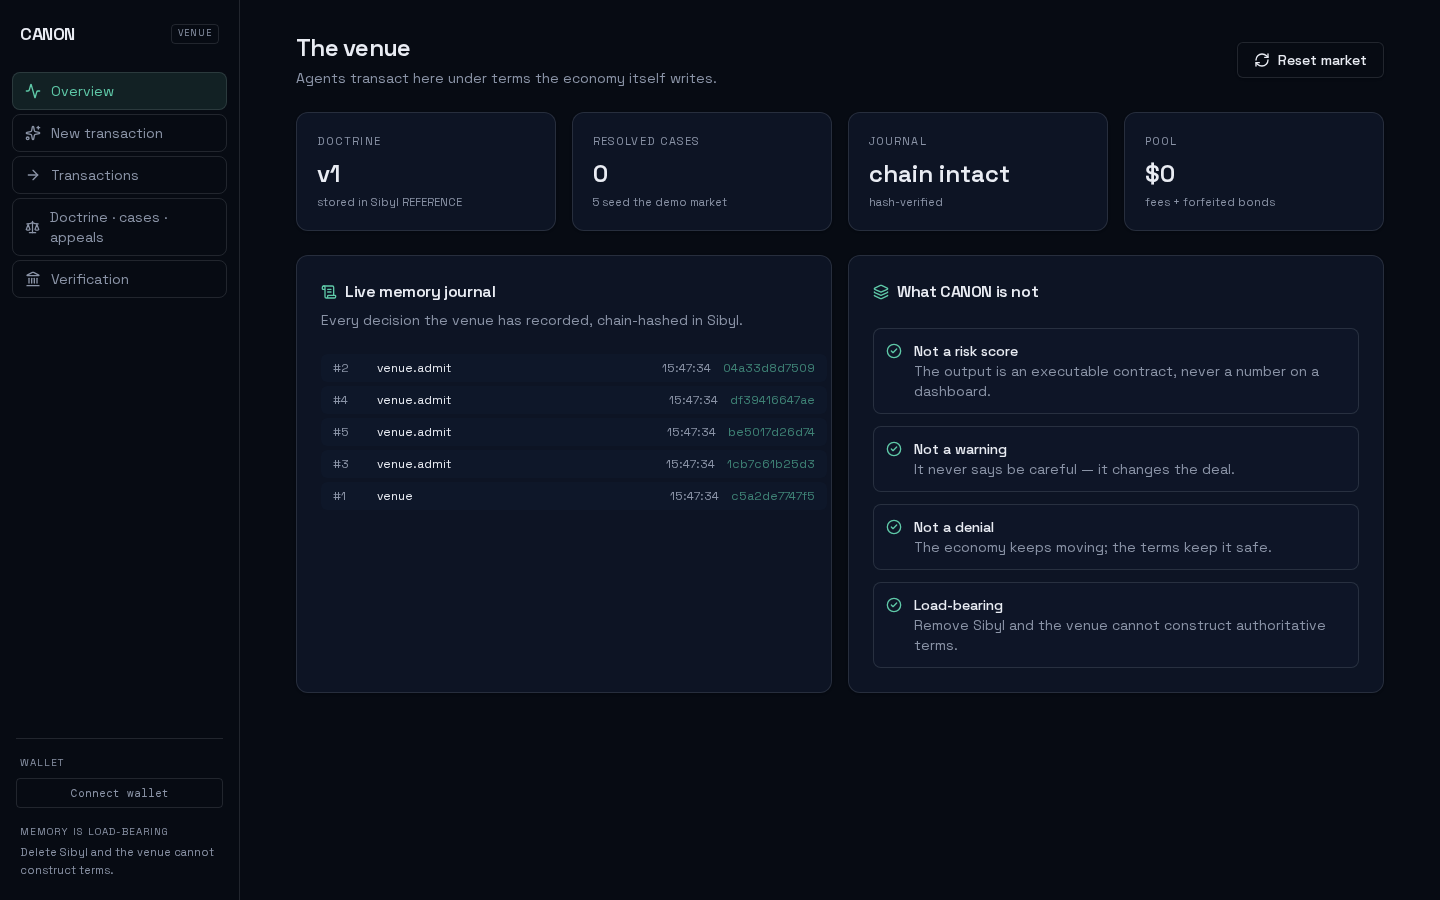
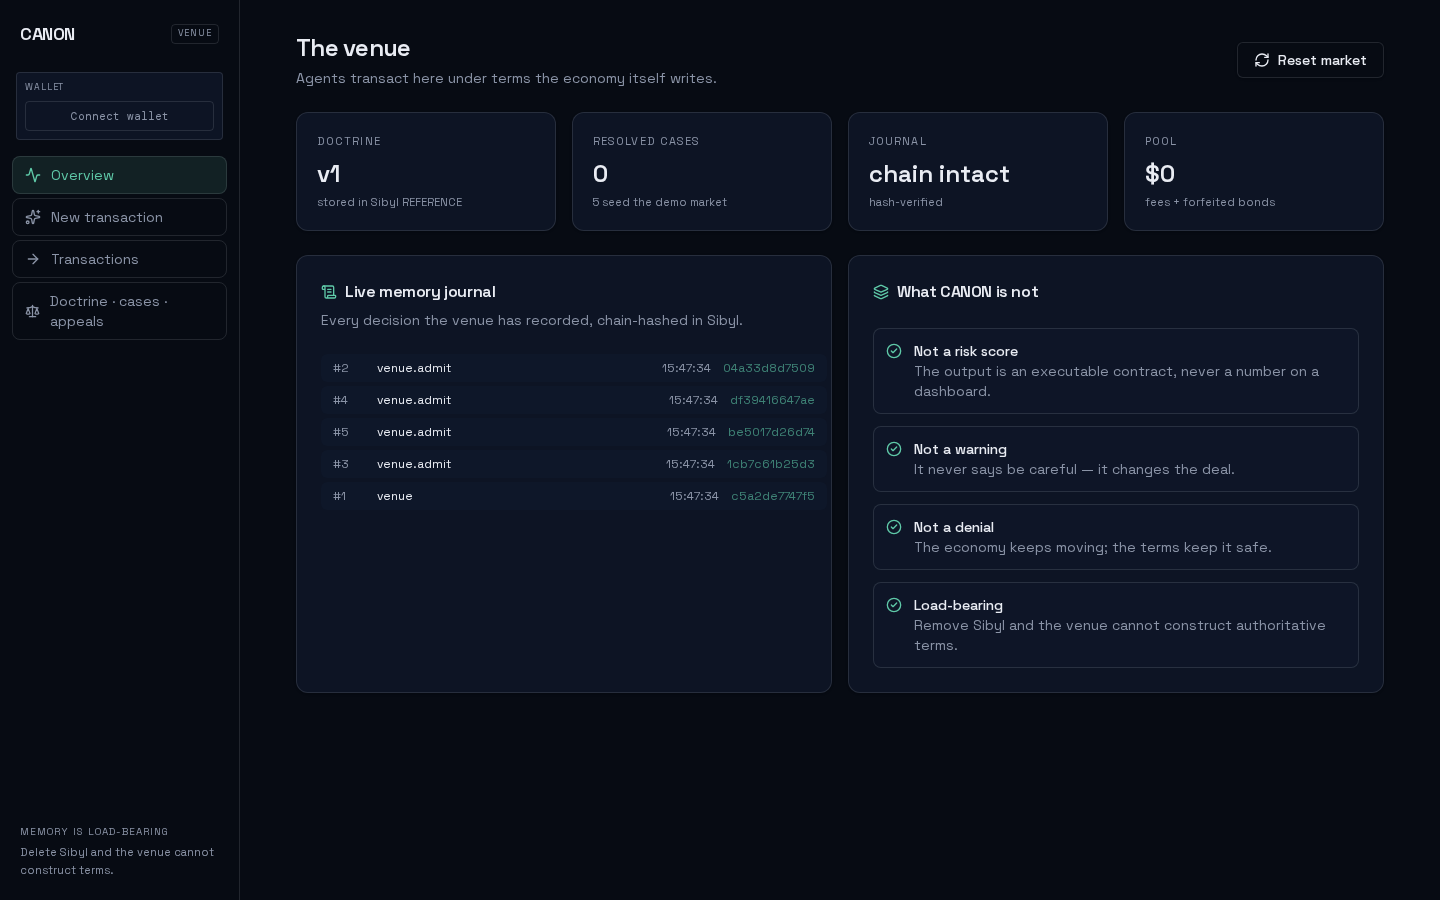
purge product mock/simulated surfaces: remove fixture-based judge endpoints from the served API (cold-start/ablation) and console Verification section; keep only the REAL live-market deletion gate (/api/verify/deletion) with WAL-consistent backup copy; real provider wallet addresses replace stale fa

Changed region(s): [[0.0, 0.1867, 0.125, 0.3733], [0.0, 0.0933, 0.125, 0.1556], [0.0625, 0.8711, 0.125, 0.9022]]

diff --git a/web/components/console/institution.tsx b/web/components/console/institution.tsx
@@ -34,8 +34,8 @@ export function DoctrineView({ bump }: { bump: number }) {
 
       {doc && doc.rules.length === 0 && (
         <Card><CardContent className="p-5 text-sm text-muted-foreground">
-          No doctrine yet — the venue is running on naive terms (100% upfront, no bond). Five confirmed
-          failures in a job class will write doctrine v1.
+          No doctrine yet — the venue is not founded. A venue must be chartered
+          before it can construct terms; after that, only real resolved cases and bonded appeals move it.
         </CardContent></Card>
       )}
 
@@ -107,7 +107,7 @@ export function AppealsView({ bump, onChanged }: { bump: number; onChanged: () =
       await api("/api/appeals", {
         method: "POST",
         body: JSON.stringify({
-          challenger: "0xprov000000000000000000000000000003",
+          challenger: "0x31eafd3fe36d6c891ea5b369a876166dffabf320",
           target_rule_id: ruleId, arguments: arguments_, bond_usd: Number(bond),
         }),
       });
@@ -207,100 +207,3 @@ export function CasesView({ bump }: { bump: number }) {
   );
 }
 
-type Proof = { pass_?: boolean; virgin_terms?: any; recalled_terms?: any; doctrine_version?: number; ts?: string; refusal?: string; naive?: any; governed?: any; reduction?: number };
-
-function ProofCard({ title, note, run, kind }: { title: string; note: string; run: () => Promise<Proof>; kind: "cold" | "del" | "abl" }) {
-  const [busy, setBusy] = useState(false);
-  const [res, setRes] = useState<Proof | null>(null);
-  const runOnce = async () => {
-    setBusy(true);
-    setRes(null);
-    try {
-      const r = await run();
-      setRes(r);
-      toast.success(r.pass_ === false ? `${title}: PROOF FAIL` : `${title}: live proof recorded`);
-    } catch (e: any) {
-      toast.error(e.message);
-    } finally {
-      setBusy(false);
-    }
-  };
-
-  return (
-    <Card className="border-border">
-      <CardHeader className="pb-2">
-        <CardTitle className="flex items-center gap-2 text-base">
-          <ShieldCheck className="size-4 text-[#5fc9a8]" /> {title}
-        </CardTitle>
-        <CardDescription>{note}</CardDescription>
-      </CardHeader>
-      <CardContent className="space-y-2">
-        <Button size="sm" onClick={runOnce} disabled={busy}><FlaskConical className={busy ? "animate-pulse" : ""} /> Run live</Button>
-        {res && (
-          <div className="term-mono rounded-lg border border-border bg-black/25 p-3 text-[11px] leading-relaxed">
-            {res.pass_ !== undefined && (
-              <div className={`mb-1 font-semibold ${res.pass_ ? "text-[#5fc9a8]" : "text-[#e06a5e]"}`}>
-                {res.pass_ ? "PROOF PASS" : "PROOF FAIL"}
-              </div>
-            )}
-            {kind === "cold" && (
-              <>
-                <div>virgin terms · doctrine v0 · bond {res.virgin_terms?.bond_usd}</div>
-                <div>recalled terms · doctrine v{res.doctrine_version} · bond {res.recalled_terms?.bond_usd}</div>
-                <div className="text-muted-foreground">a stranger's history changed the deal</div>
-              </>
-            )}
-            {kind === "del" && (
-              <div className="text-[#e06a5e]/90">{res.refusal ?? "??"}</div>
-            )}
-            {kind === "abl" && (
-              <>
-                <div>memoryless · upfront {res.naive?.upfront_usd} · bond {res.naive?.bond_usd}</div>
-                <div>history-aware · upfront {res.governed?.upfront_usd} · bond {res.governed?.bond_usd}</div>
-                <div>capital at risk reduced {Math.round((res.reduction ?? 0) * 100)}%</div>
-              </>
-            )}
-            {res.ts && <div className="text-muted-foreground">ts {res.ts}</div>}
-          </div>
-        )}
-      </CardContent>
-    </Card>
-  );
-}
-
-export function JudgeLab({ bump }: { bump: number }) {
-  return (
-    <div className="space-y-5">
-      <h1 className="text-2xl font-semibold tracking-[-0.03em]">Verification proofs</h1>
-      <p className="text-sm text-muted-foreground">
-        Every button runs the real engine against real Sibyl memory. No canned output, no precomputed
-        strings.
-      </p>
-      <div className="grid gap-4 lg:grid-cols-3">
-        <ProofCard
-          title="Cold start / fresh session"
-          note="A brand-new process over the seeded Sibyl file recalls doctrine written earlier and returns different terms for the same request."
-          kind="cold"
-          run={() => api<Proof>("/api/judge/coldstart")}
-        />
-        <ProofCard
-          title="Deletion test"
-          note="The gate: remove Sibyl and the venue cannot construct authoritative terms. Refusal is the product."
-          kind="del"
-          run={() => api<Proof>("/api/judge/deletion")}
-        />
-        <ProofCard
-          title="Ablation"
-          note="History-aware vs memoryless CANON on identical work — measured capital delta."
-          kind="abl"
-          run={() => api<Proof>("/api/judge/ablation")}
-        />
-      </div>
-      <p className="text-xs text-muted-foreground">
-        Tip: run the full loop first — New transaction → lock escrow → provider failed → file claim.
-        After five confirmed failures the doctrine bumps, and the cold-start proof returns a bond where
-        there was none.
-      </p>
-    </div>
-  );
-}

diff --git a/web/app/page.tsx b/web/app/page.tsx
@@ -25,14 +25,14 @@ const STARS = seededStars(110);
 const SPEC_ROWS = [
   { lvl: "L1 · Market", name: "No memory", desc: "Every session starts blind. The same bad actor gets the same naive terms forever: 100% upfront, no bond, no recourse." },
   { lvl: "L2 · Venue", name: "CANON", desc: "Agents transact inside the venue. Admission is recorded; every case becomes part of the venue's institutional memory." },
-  { lvl: "L3 · Doctrine", name: "Terms, generated", desc: "Resolved cases cross evidence thresholds and amend stored rules. One agent's loss becomes a rule that protects everyone — then decays when the pattern ends." },
+  { lvl: "L3 · Doctrine", name: "Terms, generated", desc: "Resolved cases refresh the governing rule's evidence; rules decay without support; a bonded appeal amends the doctrine for everyone." },
   { lvl: "L4 · Appeal", name: "Contestable", desc: "Post a bond and challenge a precedent. A winning appeal amends the doctrine for every future transaction." },
 ];
 
 const MECH = ["transactions", "collective memory", "precedent", "doctrine", "executable terms", "base"];
 
 const NAIVE = ["no memory between sessions", "100% upfront every time", "no bond, no escrow, no recourse", "one failure teaches nothing"];
-const CANON = ["terms from collective precedent", "bond + milestones where the record says so", "rules self-amend from evidence — and decay", "any rule can be contested with a bond"];
+const CANON = ["terms from doctrine stored in memory", "bond + milestones where the charter requires", "rules amended only by real bonded appeals", "real resolved cases keep the rule alive — or let it decay"];
 
 const RECEIPT = [
   { k: "Upfront", before: "$400", after: "$100" },
@@ -84,9 +84,9 @@ export default function Home() {
           <span style={{ color: "#5fc9a8" }}>The venue writes the terms.</span>
         </h1>
         <p className="mt-8 max-w-xl text-[17px] leading-relaxed text-[#8b94a7]">
-          A stranger's past failure changes the exact contract you receive today. Not a score. Not a
-          warning. Not a denial. A different deal — generated from precedent stored in memory and
-          executed on Base.
+          The terms of every deal come from doctrine stored in the venue's memory — founded by a
+          declared charter, amended only by real bonded appeals, kept alive by real resolved cases.
+          Not a score. Not a warning. Not a denial. A different deal — executed in USDC on Base.
         </p>
         <div className="mt-10 flex flex-wrap items-center gap-3">
           <Link href="/console" className="btn-mint data px-5 py-2.5 text-sm">
@@ -168,7 +168,7 @@ export default function Home() {
             <div className="border border-[rgba(95,201,168,0.45)] bg-[#0d1424] p-7">
               <div className="flex items-center justify-between">
                 <h2 className="text-xl font-semibold text-[#e9ecf3]">Inside Canon</h2>
-                <span className="chip-ok data px-2 py-1 text-[10px]">5 confirmed cases</span>
+                <span className="chip-ok data px-2 py-1 text-[10px]">charter-governed</span>
               </div>
               <ul className="mt-6 space-y-3">
                 {CANON.map((t) => (
@@ -183,7 +183,7 @@ export default function Home() {
                   $100 upfront · $80 bond
                 </div>
                 <div className="data mt-2 text-[11px] text-[#55607a]">
-                  doctrine v1 · rule CANON-001-research · unrelated participants
+                  doctrine v1 · rule CANON-001-research · founded by charter
                 </div>
               </div>
             </div>

diff --git a/web/components/console/panels.tsx b/web/components/console/panels.tsx
@@ -18,14 +18,13 @@ import {
   Table, TableBody, TableCell, TableHead, TableHeader, TableRow,
 } from "@/components/ui/table";
 
-export type Section = "overview" | "deal" | "transactions" | "institution" | "judge";
+export type Section = "overview" | "deal" | "transactions" | "institution";
 
 const NAV: { id: Section; label: string; icon: typeof Activity }[] = [
   { id: "overview", label: "Overview", icon: Activity },
   { id: "deal", label: "New transaction", icon: Sparkles },
   { id: "transactions", label: "Transactions", icon: ArrowRight },
   { id: "institution", label: "Doctrine · cases · appeals", icon: Scale },
-  { id: "judge", label: "Verification", icon: Landmark },
 ];
 
 export function Sidebar({
@@ -315,7 +314,7 @@ export function TermsCard({ terms }: { terms: Terms }) {
 }
 
 export function DealStudio({ onDone }: { onDone: () => void }) {
-  const [provider, setProvider] = useState("0xprov000000000000000000000000000003");
+  const [provider, setProvider] = useState("0x31eafd3fe36d6c891ea5b369a876166dffabf320");
   const [amount, setAmount] = useState("400");
   const [terms, setTerms] = useState<Terms | null>(null);
   const [tx, setTx] = useState<Tx | null>(null);
@@ -378,7 +377,7 @@ export function DealStudio({ onDone }: { onDone: () => void }) {
           <div>
             <Label>Counterparty</Label>
             <div className="mt-2 grid grid-cols-2 gap-2">
-              {(["0xprov000000000000000000000000000002", "0xprov000000000000000000000000000003"] as const).map((p) => (
+              {(["0x20fd7bec60829230a1cfbe4caf25a12ab2e49aa9", "0x31eafd3fe36d6c891ea5b369a876166dffabf320"] as const).map((p) => (
                 <button
                   key={p}
                   onClick={() => setProvider(p)}
@@ -469,7 +468,7 @@ export function DealStudio({ onDone }: { onDone: () => void }) {
               <span>doctrine v{claimRes.doctrine_version_after}</span>
             </div>
             <p className="text-xs text-muted-foreground">
-              Five confirmed failures in this job class will amend the doctrine — then run the verification proofs
+              A resolved case records real evidence; a bonded appeal amends the doctrine.
               and run the fresh-session proof to see a different deal for the same request.
             </p>
           </CardContent>

diff --git a/web/app/console/page.tsx b/web/app/console/page.tsx
@@ -4,7 +4,7 @@ import { useEffect, useState } from "react";
 import { ArrowRight, Copy, TerminalSquare } from "lucide-react";
 import { engineConfigured } from "@/lib/api";
 import { Sidebar, Overview, DealStudio, Transactions, type Section } from "@/components/console/panels";
-import { AppealsView, CasesView, DoctrineView, JudgeLab } from "@/components/console/institution";
+import { AppealsView, CasesView, DoctrineView } from "@/components/console/institution";
 import { toast } from "sonner";
 
 function ConnectGate() {
@@ -57,8 +57,9 @@ function ConnectGate() {
               <div className="flex items-start gap-3">
                 <TerminalSquare className="mt-0.5 size-4 shrink-0" />
                 <div className="text-sm text-muted-foreground">
-                  Verification proofs: <span className="text-foreground">cold-start recall, deletion
-                  test, ablation</span> — each proof executes the real engine and prints its live result. Full walkthrough in the repo README.
+                  Then verify the venue: the <span className="text-foreground">deletion test</span> runs
+                  against a copy of the live market — remove the memory layer and the venue cannot
+                  construct terms. Every deal you run settles in real USDC on Base Sepolia.
                 </div>
               </div>
             </div>
@@ -107,7 +108,6 @@ export default function ConsolePage() {
               <CasesView bump={bump} />
             </div>
           )}
-          {section === "judge" && <JudgeLab bump={bump} />}
         </div>
       </main>
     </div>

diff --git a/server/main.py b/server/main.py
@@ -17,6 +17,7 @@ import hashlib
 import json
 import os
 import shutil
+import sqlite3
 import sys
 import tempfile
 import time
@@ -33,7 +34,7 @@ from typing import Any, Optional
 from canon import Canon
 from canon.errors import CanonError
 from canon.chain import ChainError, configured as chain_configured, env_chain, explorer_url
-from scripts.seed_history import BUYER, PROVIDER, PROVIDER2, JUDGE, seed
+from scripts.seed_history import BUYER, PROVIDER, PROVIDER2, JUDGE
 
 ROOT = Path(__file__).resolve().parent.parent
 # Persistent venue DB (env CANON_DB overrides; the live venue must not live in /tmp)
@@ -423,40 +424,26 @@ def chain_view():
               mirror=market.get("chain", {}))
 
 
-# ----------------------------------------------------------------- judge lab
-def _naive_terms():
-    tmp = Path(tempfile.mktemp(suffix=".db"))
-    c = Canon(tmp)
-    c.admit(BUYER)
-    c.admit(PROVIDER2)
-    return c.evaluate(buyer=BUYER, provider=PROVIDER2,
-                      job_type="research agent", job_value_usd=20.0).to_dict()
-
-
-@app.get("/api/judge/coldstart")
-def judge_coldstart():
-    try:
-        tmp = Path(tempfile.mktemp(suffix=".db"))
-        c = Canon(tmp)
-        seed(c)
-        c.admit(PROVIDER2)
-        recalled = c.evaluate(buyer=BUYER, provider=PROVIDER2,
-                              job_type="research agent", job_value_usd=20.0).to_dict()
-        naive = _naive_terms()
-        return ok(pass_=naive["bond_usd"] == 0.0 and recalled["bond_usd"] > 0.0,
-                  virgin_terms=naive, recalled_terms=recalled,
-                  doctrine_version=c.doctrine_now().version, ts=c.clock.iso())
-    except CanonError as e:
-        return err(e)
-
-
-@app.get("/api/judge/deletion")
-def judge_deletion():
+# ------------------------------------------------------------------ verification
+@app.get("/api/verify/deletion")
+def verify_deletion():
+    """The real deletion gate against a copy of the LIVE market: remove the
+    Sibyl layer and the venue cannot construct terms. No fixture, no seed."""
     try:
         src = DEMO_DB
         tmp = Path(tempfile.mktemp(suffix=".db"))
         if src.exists():
-            shutil.copy2(src, tmp)
+            # consistent copy: the venue db runs in SQLite WAL mode, so a raw
+            # file copy misses committed data sitting in -wal
+            con = sqlite3.connect(src)
+            try:
+                out = sqlite3.connect(tmp)
+                try:
+                    con.backup(out)
+                finally:
+                    out.close()
+            finally:
+                con.close()
         c = Canon(tmp)
         with_memory = c.doctrine_now().version
         c.seam.delete_all()
@@ -469,23 +456,6 @@ def judge_deletion():
         except CanonError as e:
             refusal = f"{type(e).__name__}: {e}"
         return ok(pass_=refusal is not None, doctrine_before=with_memory, refusal=refusal)
-    except CanonError as e:
-        return err(e)
-
-
-@app.get("/api/judge/ablation")
-def judge_ablation():
-    try:
-        naive = _naive_terms()
-        tmp = Path(tempfile.mktemp(suffix=".db"))
-        c = Canon(tmp)
-        seed(c)
-        c.admit(PROVIDER2)
-        governed = c.evaluate(buyer=BUYER, provider=PROVIDER2,
-                              job_type="research agent", job_value_usd=20.0).to_dict()
-        return ok(pass_=governed["bond_usd"] > naive["bond_usd"],
-                  naive=naive, governed=governed,
-                  reduction=round(1 - governed["upfront_usd"] / naive["upfront_usd"], 4))
     except CanonError as e:
         return err(e)
 
